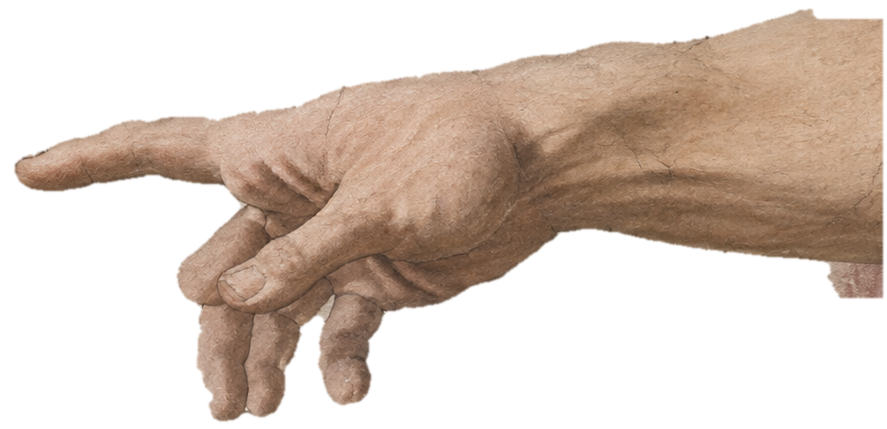
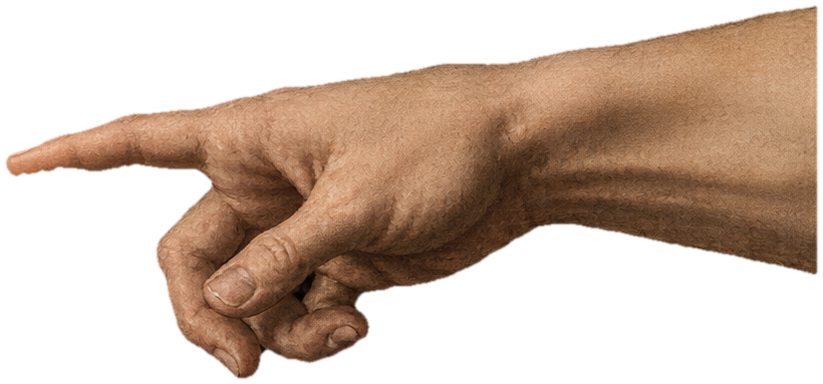
ltbt: swap in the new hands from the supplied reference image
Cut both hands out of the 1847x852 reference (halo removed by radial
residual, edges cleaned), rebuilt normal and height maps, and updated the
hand metadata so the fingertips meet the logo at the reference height.

Claude-Session: https://claude.ai/code/session_01QVLvoPmmds361Rv44ZagrK

diff --git a/ltbt/index.html b/ltbt/index.html
@@ -34,7 +34,7 @@ S.add(new THREE.HemisphereLight(0x6a7a9a,0x050505,.5));
 const key=new THREE.DirectionalLight(0xffe6cc,1.2);key.position.set(-3,5,6);S.add(key);
 const rimW=new THREE.DirectionalLight(0xffd2b0,1.1);rimW.position.set(-5,1.5,1.5);const rimC=new THREE.DirectionalLight(0x9fd8ff,.7);rimC.position.set(5,2,1.5);S.add(rimW,rimC);
 const glowL=new THREE.PointLight(0x7fe3ff,0,14,1.6);S.add(glowL);
-const MT={"L":{"w":887,"h":409,"tx":864,"ty":222,"oy":192},"R":{"w":887,"h":429,"tx":14,"ty":164,"oy":222},"ref":400},TL=new THREE.TextureLoader(),WS=.00695,tex=(f,c)=>{const t=TL.load(f);if(c)t.colorSpace=THREE.SRGBColorSpace;t.anisotropy=8;return t};
+const MT={"L":{"w":832,"h":348,"tx":827,"ty":169,"oy":130},"R":{"w":823,"h":384,"tx":4,"ty":163,"oy":129},"ref":313},TL=new THREE.TextureLoader(),WS=.00695,tex=(f,c)=>{const t=TL.load(f);if(c)t.colorSpace=THREE.SRGBColorSpace;t.anisotropy=8;return t};
 function hand(n){const m=MT[n],g=new THREE.Group(),map=tex('hand_'+n+'.png',1);
  const mesh=new THREE.Mesh(new THREE.PlaneGeometry(m.w*WS,m.h*WS,170,90),new THREE.MeshStandardMaterial({map,emissiveMap:map,emissive:0xffffff,emissiveIntensity:.8,normalMap:tex('normal_'+n+'.png'),normalScale:new THREE.Vector2(1.3,1.3),displacementMap:tex('height_'+n+'.png'),displacementScale:.14,displacementBias:-.02,roughness:.7,toneMapped:false,transparent:true,alphaTest:.02,depthWrite:false,side:THREE.DoubleSide}));
  mesh.position.set((m.w/2-m.tx)*WS,-(m.h/2-m.ty)*WS,0);g.add(mesh);g.position.y=(MT.ref-(m.oy+m.ty))*WS;return g}
